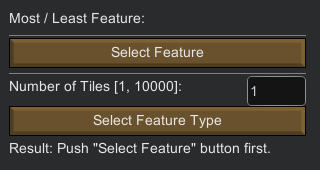
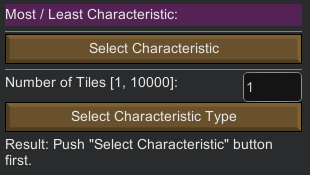
Rework temperature tab doc.

diff --git a/games/rimworld/preparelanding/temperature_tab.md b/games/rimworld/preparelanding/temperature_tab.md
@@ -1,26 +1,99 @@
-Temperature
-============
+Terrain 2 & Temperature
+=======================
 
-The temperature tab deals mostly with temperature-related filters.
+This tabs is split in two parts: the leftmost part is dedicated to terrain filters while the right part is dedicated to temperature related filters.
 
-![Temperature Tab](assets/temperature_tab.png)
+![Terrain and Temperature Tab](assets/temperature_tab.png)
 
-The list of available filters in this tab is as follows:
+The [terrain filters](#terrain-filters) are as follows:
+
+* [Most / Least Characteristics](#most-least-feature)
+    * Elevation
+    * Temperature
+    * Rainfall
+* [Special Features](#special-features)
+    - Caves
+* [World Features](#world-features)
+    - Named locations
+* [The coordinates window](#coordinates-window)
+
+The list of available [temperature related filters](#temperature-filters) in this tab is as follows:
+
 * [Temperatures](#temperatures)
     * Average Temperature
     * Winter Temperature
     * Summer Temperature
 * [Growing Period](#growing-period)
 * [Rainfall](#rainfall)
-* [Most / Least Feature](#most-least-feature)
-    * Elevation
-    * Temperature
-    * Rainfall
 * [Animals Can graze Now](#animals-can-graze-now)
 
 The "[Temperature Forecast](#temperature-forecast)" is **not** a filter: it allows you to see the temperature forecasts for a given date at a given tile.
 
-# Temperatures
+Terrain Filters
+---------------
+
+## Most Least Characteristics
+
+This filter allows you to filter different tile characteristics by their most or least prevalence.
+
+![Most Least Characteristics selection](assets/select_most_least.png)
+
+The currently selectable characteristics are:
+* Elevation
+* Rainfall
+* Temperature
+
+Simply put it allows you to select a given number of tiles with the lowest or highest characteristic. For example, you might want to choose the 25 tiles with the highest elevation, or filtering the 100 tiles that have the lowest temperature.
+
+Of course you can combine this filter with other filters.
+
+First you need to select the given feature (elevation, temperature or rainfall) and next the type of the feature (most / least or if you wish highest / lowest).
+
+![Most Least Characteristics](assets/select_most_least_characteristic.png)
+
+![Most Least Characteristics](assets/select_most_least_characteristic_type.png)
+
+To disable the filter, simply choose "None" as the feature to filter. This disable the filter altogether.
+
+## Special Features
+
+As of B18, RimWorld has only one special feature which is "caves".
+
+This filter allows you to filter tiles with caves.
+
+The coastal tile filter is a single [three-state filter](filtering.md#orderable-three-states).
+
+![Caves filter](assets/select_caves.png)
+
+- `On`: Filter only tiles that contain caves
+- `Off`: Filter tiles that do **not** contain caves
+- `Partial`: both "have caves" and "do not have caves" tiles match (default behavior)
+
+## World Features
+
+This filter let you select tiles in a specific named location (called "World Feature" by the RimWorld code) on the world map.
+
+Below is an example with seed `doctor` on a 5% world:
+
+![World Feature](assets/select_world_feature.png)
+
+By default the `Any` filter means that all names match (and thus the entire world).
+
+Note: be wary that some tiles that are part of a named location might be located quite "far" from the name on the world map.
+
+## Coordinates Window
+
+The coordinates window can be called while the world map is displayed, either by pressing the button in this tab or by pressing `CTRL + M` (`command` for Mac users).
+
+It's a handy way to go to a tile by its ID or its coordinates. The window also displays 4 buttons related to specific locations on the world.
+
+![World Feature](assets/coordinates_window.png)
+
+
+Temperature Filters
+-------------------
+
+## Temperatures
 
 Allows to filter tiles by their temperatures (in °C). These filters are of [Usable Numeric filter](filtering.md#usable-numeric) type.
 
@@ -33,7 +106,8 @@ Technically, the game allows temperatures in the range [-270, 1000] °C.
 
 Do not forget to click on the `Use filter` (by default a red cross) if you want the filter to be taken into account.
 
-# Growing Period
+
+## Growing Period
 
 Allows to filter tiles by the length of their growing period (in days).
 
@@ -47,12 +121,28 @@ If you want to search for a single growing period, set the minimum and maximum t
 
 Obviously, the minimum growing period cannot be greater than the maximum.
 
-Note that:
+Note that since B18 the game gives the growing period as what looks like a fraction:
+
+![Growing Preiod](assets/growing_period.png) 
+
+In this case it means that the growing period is 30 days (out of 60 days which is a RimWorld year) and this growing period goes from the 6th of Aprimay to the 6th of Septober.
+
+Please also note that:
 
 1. The game has a 60 days-long year, so the minimum is `Never` (0 day; no growing period) and the maximum is `Year-round` (60 days).
 2. Growing periods are organized in period of 5 days; 5 days = a single Twelfth (as there are 12 twelves in a year, which amounts to a total of 60 days).
 
-# Animals Can Graze Now
+
+## Rainfall
+
+Allows to filter tiles by the quantity of rain / precipitation (in millimeters). Note: Rainfall is useful for farming.
+
+![Rainfall selection](assets/select_rainfall.png) 
+
+This filters is of [Usable Numeric filter](filtering.md#usable-numeric) type.
+
+
+## Animals Can Graze Now
 
 **Important Note**: this filter is only available while playing (colonies already settled) and not on the world map while selecting the landing site. This is a vanilla game limitation.
 
@@ -61,33 +151,8 @@ Note that:
 This filter allows to filter tiles by checking if animals are able to graze at the time of the check.
 See [three states filtering](filtering.md#three-states) on how to proceed with this type of filter.
 
-# Rainfall
 
-Allows to filter tiles by the quantity of rain / precipitation (in millimeters). Note: Rainfall is useful for farming.
-
-![Rainfall selection](assets/select_rainfall.png) 
-
-This filters is of [Usable Numeric filter](filtering.md#usable-numeric) type.
-
-# Most Least Feature
-
-This filter allows you to filter different tile features by their most or least prevalence.
-
-![Most Least Feature selection](assets/select_most_least.png)
-
-The currently selectable features are:
-* Elevation
-* Rainfall
-* Temperature
-
-Simply put it allows you to select a given number of tiles with the lowest or highest feature. For example, you might want to choose the 25 tiles with the highest elevation, or filtering the 100 tiles that have the lowest temperature.
-
-Of course you can combine this filter with other filters.
-
-First you need to select the given feature (elevation, temperature or rainfall) and next the type of the feature (most / least or if you wish highest / lowest).
-To disable the filter, simply choose "None" as the feature to filter. This disable the filter altogether.
-
-# Temperature Forecast
+## Temperature Forecast
 
 The temperature forecast allows you to see the temperature forecast for a given tile.
 
